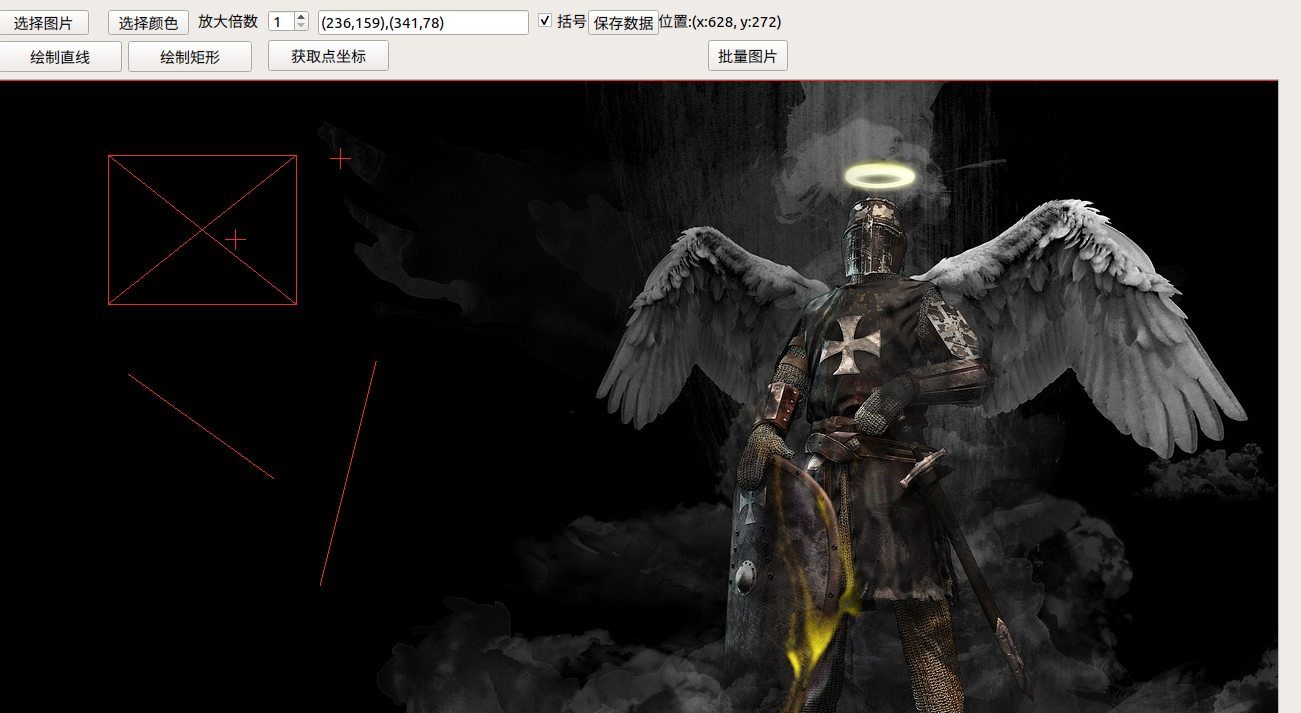
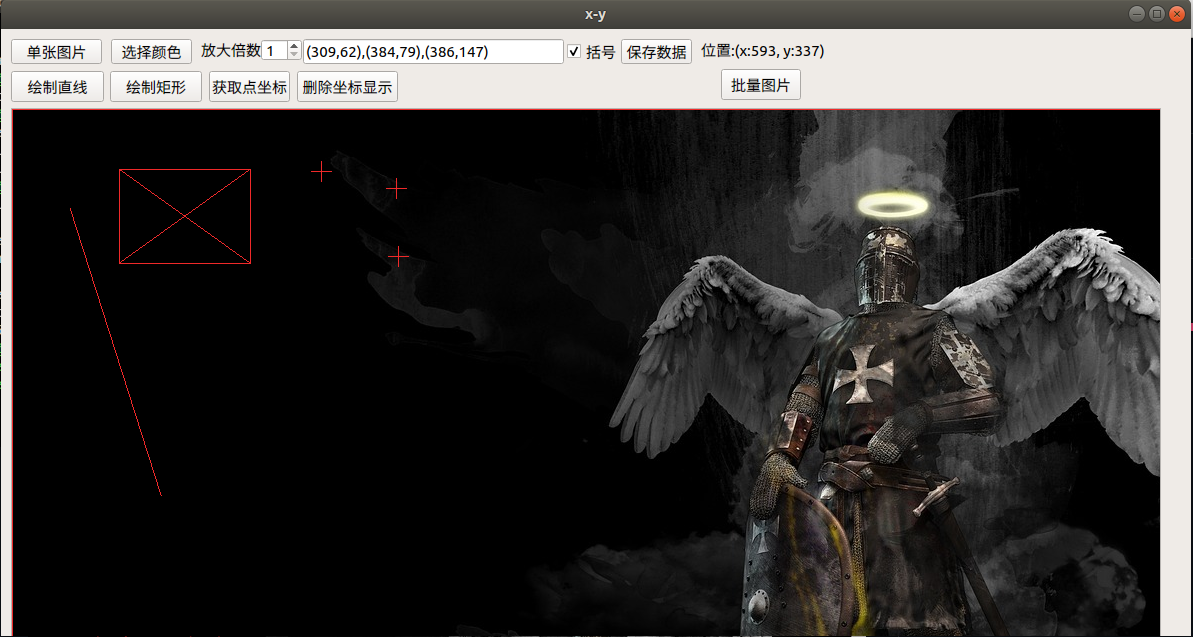
update README.md

diff --git a/README.md b/README.md
@@ -5,14 +5,15 @@
 ![github](https://raw.github.com/frdmu/PointsPicker/master/res/demo.png "github")
 
 ## 三、操作说明
-- 选择图片：点击“选择图片”后，可选择单张图片。
+- 单张图片：点击“单张图片”后，可选择单张图片。
 - 批量图片：点击“批量图片”后，选择图片所在的文件夹即可；
             显示图片后，继续点击“批量图片”，可切换至下一张。
 - 绘制直线：点击“绘制直线”按钮后，鼠标左键点击两次，分别确定直线的端点后，即可绘制出直线。
 - 绘制矩形：点击“绘制矩形”按钮后，鼠标左键点击矩形左上角，并且按住左键移动，直至在矩形右下方处松开，即可绘制出矩形。
-- 获取点坐标：点击“获取点坐标”后，鼠标左键点击图片某一点，即可获取该点坐标，且点坐标可在上方文本框显示;
-              鼠标右键可取消刚刚文本框中获取的坐标。
-- 保存数据：点击“保存数据”按钮后，可将文本框中的数据保存到“~/dataSet.txt”文件中，数据包括图片路径和在该图片上选取的坐标。
+- 获取点坐标：点击“获取点坐标”后，鼠标左键点击图片某一点，即可获取该点坐标，且点坐标可在上方文本框显示。
+- 删除坐标显示： 点击“删除坐标显示”后，可取消刚刚文本框中获取的坐标。
+- 保存数据：点击“保存数据”按钮后，可将文本框中的数据保存到“~/dataSet.txt”文件中，数据包括:图片路径|像素坐标|真实坐标。
+- 鼠标右键：弹出“输入真实坐标”文本框，(输入格式为x,y), 每次只能输入一个真实坐标，坐标中间的逗号应在英文输入法下。
 - 放大倍数：暂时用不到
 
 ## 四、感谢
